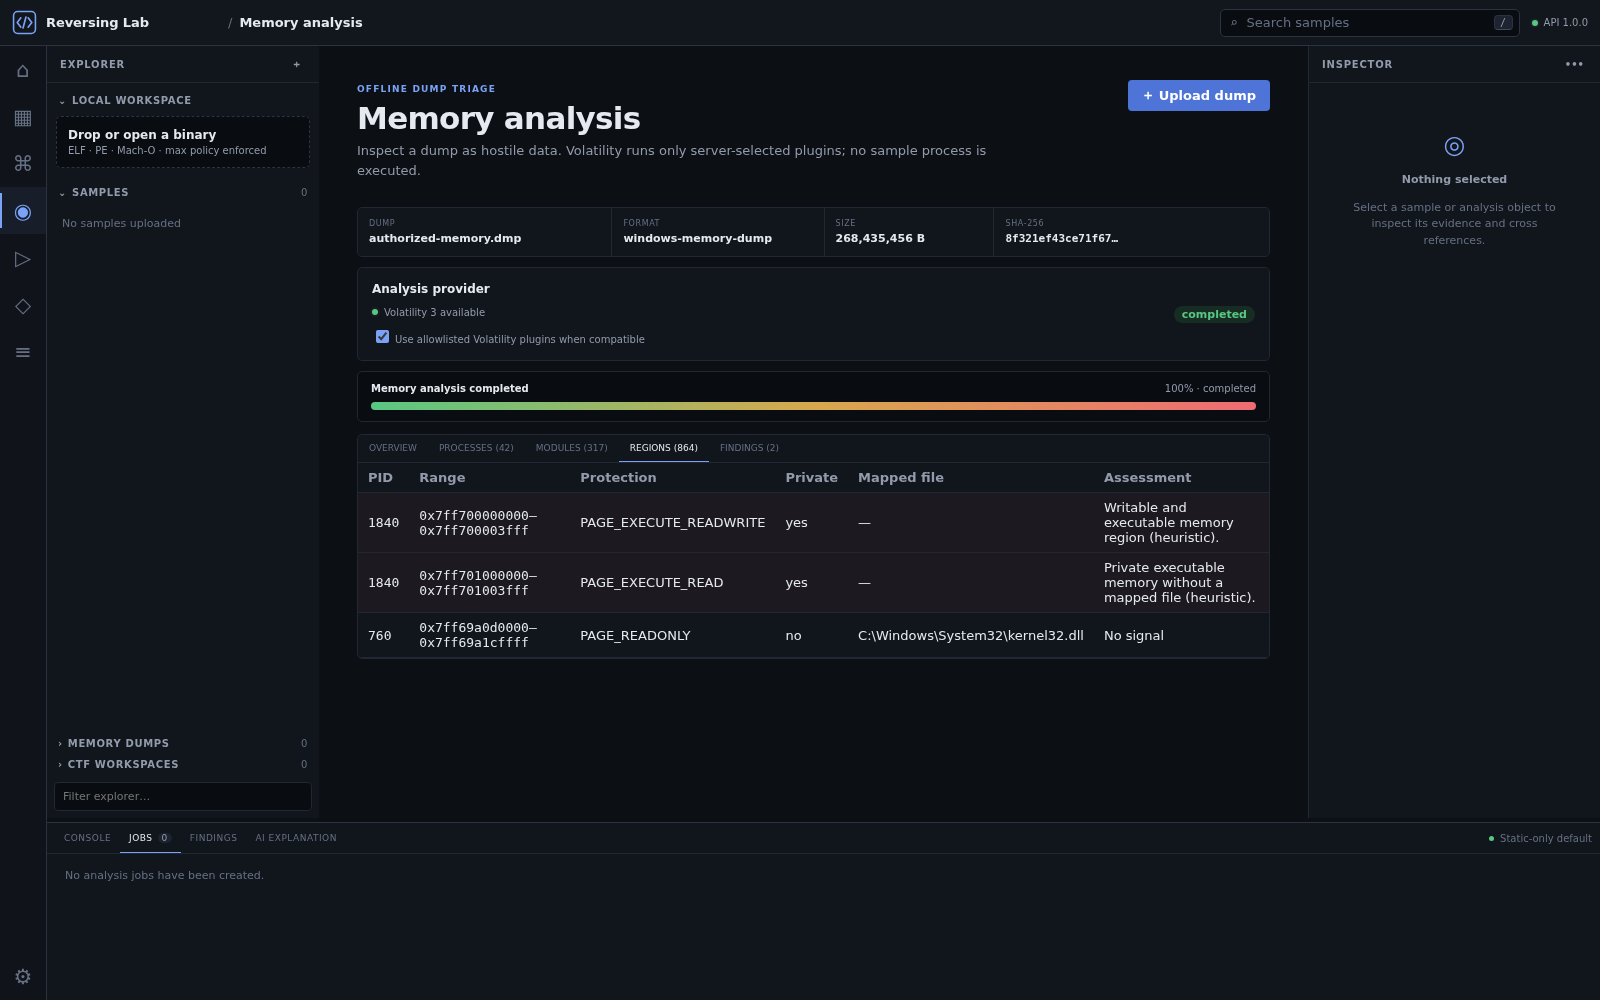
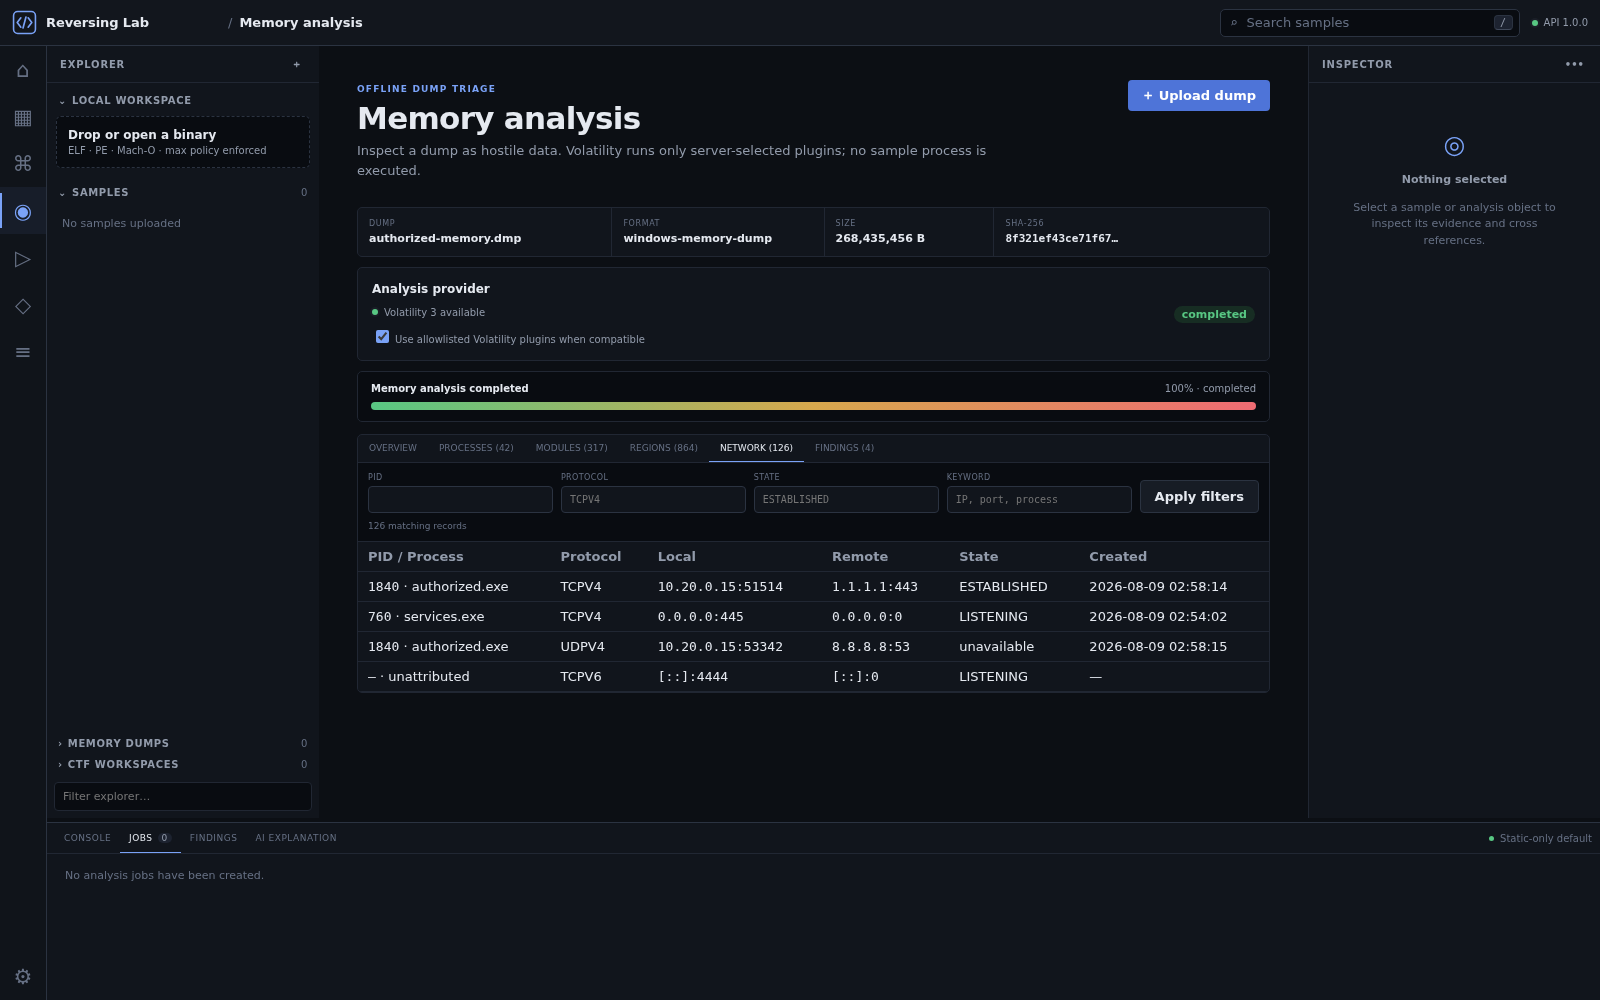
docs: document process tree and network analysis

Changed region(s): [[0.2188, 0.434, 0.625, 0.682], [0.5312, 0.465, 0.7812, 0.682]]

diff --git a/docs/MEMORY_ANALYSIS.md b/docs/MEMORY_ANALYSIS.md
@@ -21,8 +21,8 @@ not asserted to be a valid or recoverable credential.
 2. Keep **Use allowlisted Volatility plugins** enabled only when Volatility is
    available and the input is a compatible Windows full dump.
 3. Start analysis and monitor the bounded background job.
-4. Review **Processes**, **Modules**, **Regions**, and **Findings**. Provider warnings
-   show partial plugin failures without hiding successful results.
+4. Review **Processes**, **Modules**, **Regions**, **Network**, and **Findings**.
+   Provider warnings show partial plugin failures without hiding successful results.
 
 Equivalent API flow:
 
@@ -34,6 +34,7 @@ GET  /api/memory-dumps/{id}/analysis           summary
 GET  /api/memory-dumps/{id}/processes          paginated
 GET  /api/memory-dumps/{id}/modules            paginated
 GET  /api/memory-dumps/{id}/regions            paginated
+GET  /api/memory-dumps/{id}/network            paginated and filtered
 GET  /api/memory-dumps/{id}/findings
 ```
 
@@ -59,8 +60,10 @@ The server, not the API caller, selects plugins. Current normalized execution us
 | Plugin | Normalized output | Failure behavior |
 |---|---|---|
 | `windows.pslist.PsList` | PID, PPID, name, thread count | process capability remains unavailable |
+| `windows.pstree.PsTree` | parent/child depth, orphan state, optional command line | tree capability remains unavailable |
 | `windows.dlllist.DllList` | PID, base, size, name, path, load time | module capability remains unavailable |
 | `windows.vadinfo.VadInfo` | PID, range, protection, private flag, mapping, tag | memory map remains unavailable |
+| `windows.netscan.NetScan` | protocol, local/remote endpoint, state, PID/owner, time | network capability remains unavailable |
 
 Each plugin runs separately. Missing symbols or a malformed result from one plugin is
 recorded as a provider warning and does not discard successful sibling plugin output.
@@ -75,6 +78,7 @@ RLAB_MAX_MEMORY_DUMP_BYTES=536870912
 RLAB_MAX_MEMORY_PROCESSES=10000
 RLAB_MAX_MEMORY_MODULES=50000
 RLAB_MAX_MEMORY_REGIONS=100000
+RLAB_MAX_MEMORY_NETWORK_RECORDS=50000
 RLAB_MAX_MEMORY_FINDINGS=1000
 RLAB_MAX_EXTERNAL_OUTPUT_BYTES=2097152
 ```
@@ -92,11 +96,28 @@ finding includes PID/process context, range, protection, mapping state, provider
 confidence, and a false-positive caveat. Correlate it with region bytes and dynamic
 observations before escalating.
 
+## Process tree and network observations
+
+`pstree` enriches the process list with bounded tree depth, parent linkage, optional
+command line, and orphan status. An orphan marker means the reported parent PID was not
+present in the bounded combined process result; it does not prove process injection.
+
+The Network tab queries the stored bounded artifact and supports PID, protocol, state,
+and keyword filters. Filters are never passed to a plugin. Network findings are
+deliberately conservative:
+
+- a public remote IP is an informational observation, not an IOC verdict;
+- a wildcard listening socket is low severity only when process attribution is absent.
+
+Browsers, update agents, DNS clients, enterprise services, terminated processes, and
+symbol gaps can all produce benign matches. Validate endpoints against authorization,
+time, process ancestry, and other evidence.
+
 ## Known limitations
 
 - Minidumps currently receive metadata/basic triage, not the full Windows plugin plan.
-- Process command lines, thread details, process tree, handles, registry, network,
-  YARA, region byte export, and region disassembly are not yet normalized.
+- Complete command-line coverage, thread details, handles, registry, YARA, region byte
+  export, and region disassembly are not yet normalized.
 - Volatility output is provider-supplied evidence. Bounds prevent unbounded storage but
   cannot make a compromised external tool truthful.
 - The current in-process job runner is cancellation-aware between application steps,

diff --git a/docs/ARCHITECTURE.md b/docs/ARCHITECTURE.md
@@ -68,12 +68,13 @@ api → analysis/analyzer/disassembler/decompiler/memory/dynamic → parser.mode
 3. a DB-backed job performs basic data-only triage.
 4. if explicitly requested and available, the adapter runs only server-selected
    Volatility plugins.
-5. `pslist`, `dlllist`, and `vadinfo` outputs are independently normalized into
-   bounded process, loaded-module, and region records; one plugin failure does not
-   discard successful sibling results.
+5. `pslist`, `pstree`, `dlllist`, `vadinfo`, and `netscan` outputs are independently
+   normalized into bounded process-tree, loaded-module, region, and network records;
+   one plugin failure does not discard successful sibling results.
 6. VAD permissions and mapping provenance produce reviewable RWX/private-executable
-   heuristic findings with explicit false-positive caveats.
-7. large results are gzip JSON artifacts, not one row per module/string/region.
+   heuristic findings. Public endpoints remain informational observations, while only
+   unattributed wildcard listeners receive a low-severity review signal.
+7. large results are gzip JSON artifacts, not one row per module/socket/string/region.
 
 ### Dynamic analysis
 
@@ -156,9 +157,9 @@ Decompiler output is explicitly estimated C-like code, never claimed as original
 ## Performance controls
 
 Settings cap upload sizes, instructions, functions, CFG/call graph nodes, strings,
-YARA matches, memory processes/modules/regions/findings, dynamic events, job
+YARA matches, memory processes/modules/regions/network records/findings, dynamic events, job
 concurrency, analysis/decompiler time, and external output. The API paginates
-functions, hex, memory processes/modules/regions, and dynamic events.
+functions, hex, memory processes/modules/regions/network records, and dynamic events.
 Large UI tables use windowed rendering.
 
 ## Technology decisions

diff --git a/docs/SECURITY.md b/docs/SECURITY.md
@@ -46,7 +46,7 @@ anchor or sign exports in an independently controlled system.
 ## Parsing and analysis controls
 
 Parsers wrap malformed library inputs in typed errors. Settings bound functions,
-instructions, graph nodes, strings, memory processes/modules/regions/findings, events,
+instructions, graph nodes, strings, memory processes/modules/regions/network records/findings, events,
 output sizes, elapsed time, and concurrent jobs. A clean heuristic result is not a
 safety verdict.
 
@@ -55,11 +55,16 @@ safety verdict.
 Ghidra decompile, UPX unpack, and Volatility calls use fixed executable resolution and
 argument vectors, `shell=False`, timeouts, private temporary directories, bounded
 structured output, and sanitized environments. Volatility plugin names are chosen by
-server code from an allowlist. Process, DLL, and VAD plugins fail independently;
+server code from an allowlist. Process-list/tree, DLL, VAD, and network plugins fail independently;
 external output is normalized as untrusted data and each result retains its provider.
 RWX/private-executable VAD findings are heuristic and explicitly identify common JIT,
 instrumentation, and compatibility-layer false positives. UPX is explicit opt-in,
 never overwrites the original, and records both hashes and size/section changes.
+
+Network records are provider observations rather than IOC verdicts. Public remote
+addresses produce informational findings only. A wildcard listener is raised at low
+severity only when Volatility cannot attribute it to a process. API network filters are
+bounded artifact queries and are never forwarded to Volatility.
 
 Legacy whole-binary integration adapters are optional and should be placed in an
 additional process/container boundary for hostile production workloads. No optional

diff --git a/docs/ROADMAP.md b/docs/ROADMAP.md
@@ -7,8 +7,8 @@
 - synchronized disassembly/pseudo-C, CFG, call graph, flow summary;
 - evidence/provenance finding model, packing and obfuscation heuristics;
 - safe UPX and data-only decoder tools;
-- DB-backed jobs, memory triage, Volatility allowlist, normalized process/DLL/VAD
-  records, and evidenced RWX/private-executable findings;
+- DB-backed jobs, memory triage, Volatility allowlist, normalized process tree/DLL/VAD/
+  network records, and evidenced RWX/private-executable/network review findings;
 - disabled/mock dynamic provider and readiness UI;
 - persistent CTF workspace and report export;
 - Alembic baseline with conservative legacy SQLite bootstrap;
@@ -37,8 +37,8 @@
 
 - out-of-process parser/external-tool workers;
 - VM sandbox provider reference implementation with authenticated worker protocol;
-- Volatility process trees, handles, network, registry, YARA, region byte export, and
-  bounded region disassembly models;
+- Volatility handles, registry, YARA, region byte export, and bounded region
+  disassembly models;
 - YARA/FLOSS/capa adapters and normalized provenance;
 - detector plugin registry and curated fixture corpus;
 - scalable PostgreSQL job claiming and optional Celery/RQ adapter;

diff --git a/docs/THREAT_MODEL.md b/docs/THREAT_MODEL.md
@@ -36,6 +36,7 @@ are operator-controlled but still validated before sensitive use.
 | command injection | fixed argv, no shell, allowlisted plugins | external tool vulnerabilities remain |
 | forged or oversized Volatility output | typed normalization, per-record-class caps, provider attribution | a compromised tool can still fabricate bounded results |
 | RWX heuristic false positive | evidence, confidence, process/range context, explicit caveat | analyst correlation with bytes and behavior remains required |
+| network observation misclassified as malicious | public endpoints are informational; only unattributed wildcard listeners receive low severity | provider output and historical sockets still require timeline/context validation |
 | decompression bomb | archive uploads unsupported | future archive support needs a dedicated extractor |
 | unsafe sample execution | API has no execution path, disabled provider | custom provider security is operator responsibility |
 | container escape | VM provider recommended; no Docker-only security claim | no production VM provider ships today |

diff --git a/docs/IMPLEMENTATION_PLAN.md b/docs/IMPLEMENTATION_PLAN.md
@@ -183,3 +183,11 @@ private executable unmapped regions produce evidence-linked heuristic findings w
 false-positive caveats. Verification passed 123 default backend tests (plus one
 PostgreSQL-only skip), 17 frontend tests, the Vite production build, zero-vulnerability
 npm audit, and focused Ruff checks for the new adapter/models/tests.
+
+Process-tree/network follow-up on 2026-08-09: the server-selected Volatility plan now
+also normalizes nested `windows.pstree.PsTree` and `windows.netscan.NetScan` results.
+Process ancestry, orphan context, network endpoints, provider provenance, exact large
+offset display, bounded filters, and conservative public-endpoint/listener findings are
+available through the API and workbench. Verification passed 124 default backend tests
+(plus one PostgreSQL-only skip), 18 frontend tests, production build, zero-vulnerability
+npm audit, and focused Ruff checks.

diff --git a/docs/API.md b/docs/API.md
@@ -55,11 +55,16 @@ Memory module and region responses retain integer addresses and also include exa
 | POST | `/jobs/{id}/cancel` |
 | POST / GET | `/memory-dumps`, `/memory-dumps/{id}` |
 | POST / GET | `/memory-dumps/{id}/analysis` |
-| GET | `/memory-dumps/{id}/processes`, `/modules`, `/regions`, `/findings` |
+| GET | `/memory-dumps/{id}/processes`, `/modules`, `/regions`, `/network`, `/findings` |
 | GET | `/dynamic-analysis/readiness` |
 | POST | `/dynamic-analysis` |
 | GET / POST | `/dynamic-analysis/{run_id}`, `/cancel` |
 | GET | `/dynamic-analysis/{run_id}/events`, `/artifacts` |
+
+`/memory-dumps/{id}/network` supports bounded `offset`/`limit` pagination and exact
+`pid`, case-insensitive `protocol`/`state`, and bounded `keyword` filters. Filtering
+operates only on the already bounded result artifact and never becomes a plugin or CLI
+argument.
 
 ## CTF, tools, and capabilities
 
